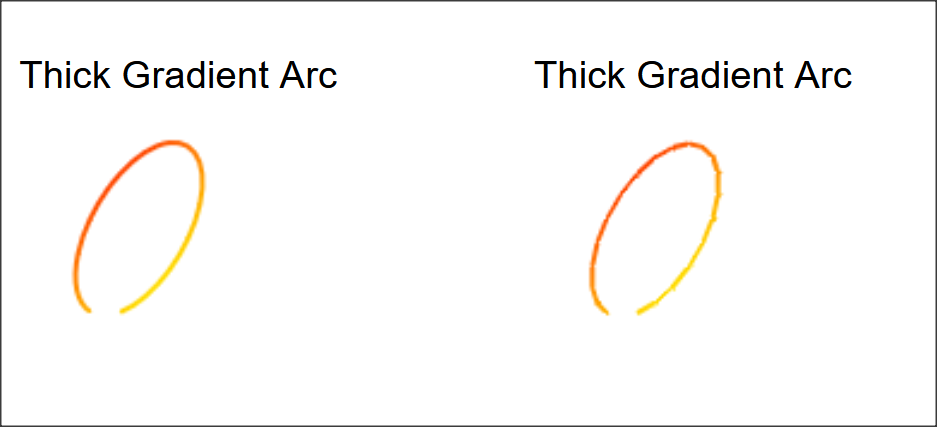
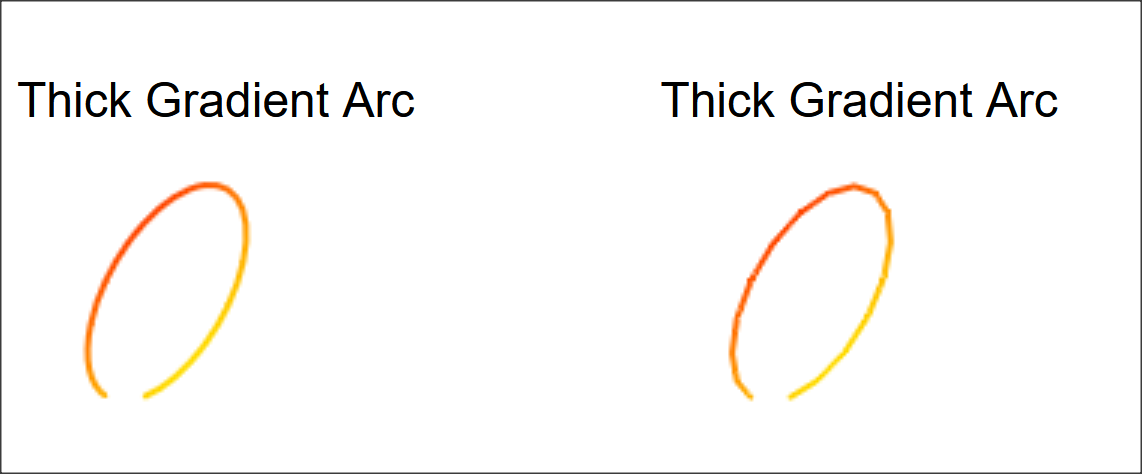
v.0.9.4
* lines with widths < 1
* better curve sampling
* some optimizations

diff --git a/src/Rasterizer.min.js b/src/Rasterizer.min.js
@@ -2,8 +2,8 @@
 *   Rasterizer
 *   rasterize, draw and fill lines, rectangles and curves
 *
-*   @version 0.9.3
+*   @version 0.9.4
 *   https://github.com/foo123/Rasterizer
 *
 **/
-!function(r,n,t){"use strict";"object"==typeof module&&module.exports?module.exports=t.call(r):"function"==typeof define&&define.amd&&"function"==typeof require&&"function"==typeof require.specified&&require.specified(n)?define(n,["module"],function(n){return t.call(r)}):n in r||(r[n]=t.call(r)||1)&&"function"==typeof define&&define.amd&&define(function(){return r[n]})}("undefined"!=typeof self?self:this,"Rasterizer",function(n){"use strict";var r=Object.defineProperty,Y=Math,B=Y.PI,t=1e-6,e=Y.sqrt(2),C=20,D=1,u="undefined"!=typeof Uint8ClampedArray?Uint8ClampedArray:"undefined"!=typeof Uint8Array?Uint8Array:Array;function c(p,h,o){var g=this;if(!(g instanceof c))return new c(p,h,o);var e,i=c.getRGBAFrom([0,0,0,1]),l=c.getRGBAFrom([0,0,0,1]),b="butt",f="miter",q=1,A=[],R=function(){e={}},k=function(n){for(var r in e){var t=e[r],r=r.split(",");n(+r[0],+r[1],t)}},S=function(n,r,t){0<=n&&n<p&&0<=r&&r<h&&0<t&&(n=String(n)+","+String(r),(e[n]||0)<t)&&(e[n]=t)},w=function(n,r,t){var e=i(n,r),u=3<e.length?e[3]:1;0<u&&o(n,r,e[0],e[1],e[2],u*t)},a=function(n,r,t){var e=l(n,r),u=3<e.length?e[3]:1;0<u&&o(n,r,e[0],e[1],e[2],u*t)};r(g,"strokeStyle",{get:function(){return""},set:function(n){i=c.getRGBAFrom(n)}}),r(g,"fillStyle",{get:function(){return""},set:function(n){l=c.getRGBAFrom(n)}}),r(g,"lineWidth",{get:function(){return q},set:function(n){0<(n=Y.abs(+n||0))&&(q=n)}}),r(g,"lineCap",{get:function(){return b},set:function(n){n=String(n).toLowerCase(),-1!==["butt","square"].indexOf(n)?b=n:s('"'+n+'" lineCap is not supported!')}}),r(g,"lineJoin",{get:function(){return f},set:function(n){n=String(n).toLowerCase(),-1!==["miter","bevel"].indexOf(n)?f=n:s('"'+n+'" lineJoin is not supported!')}}),r(g,"lineDash",{get:function(){return A.slice()},set:function(n){1&(n=[].concat(n)).length&&(n=n.concat(n)),A=n}}),g.setLineDash=function(n){g.lineDash=n},g.strokeRect=function(n,r,t,e){return 1<=t&&1<=e&&0<q&&(R(),G(S,[n,r,n+t-1,r,n+t-1,r+e-1,n,r+e-1,n,r],q,0,"butt","miter",0,0,p-1,h-1),k(w)),g},g.fillRect=function(n,r,t,e){var u,o,i,l;return 1<=t&&1<=e&&(R(),t=n+t-1,e=(r=r)+e-1,o=u=0,i=p-1,l=h-1,F(S,Y.round(n),Y.round(r),Y.round(t),Y.round(e),u,o,i,l),k(a)),g},g.strokePolyline=function(){return 0<q&&(R(),G(S,arguments,q,0,b,f,0,0,p-1,h-1),k(w)),g},g.strokeArc=function(n,r,t,e,u,o,i,l){var f,a,c,s,d,y,x,m,v;return 0<q&&(l=l?(x=-i-B,o):(x=o,i),R(),o=S,f=n,a=r,c=t,s=e,i=u,d=x,y=l,n=q,r=A,t=b,u=e=0,x=p-1,l=h-1,m=Y.cos(i),v=Y.sin(i),G(o,L(function(n){var n=d+n*(y-d),r=c*Y.cos(n),n=s*Y.sin(n);return[f+m*r-v*n,a+v*r+m*n]},C,D,!0),n,0,t,"bevel",e,u,x,l),k(w)),g},g.strokeBezier=function(){var i,n,r,t,e,u,o,l;return 0<q&&4<=arguments.length&&(R(),4===arguments.length?G(S,arguments,q,0,b,f,0,0,p-1,h-1):(n=q,r=A,t=b,u=e=0,o=p-1,l=h-1,G(S,L(6<(i=arguments).length?function(n){var r=1-n,t=n*n,e=r*r,u=e*r,o=t*n,e=3*e*n,n=3*t*r;return[u*i[0]+e*i[2]+n*i[4]+o*i[6],u*i[1]+e*i[3]+n*i[5]+o*i[7]]}:function(n){var r=1-n,t=r*r,r=2*r*n,n=n*n;return[t*i[0]+r*i[2]+n*i[4],t*i[1]+r*i[3]+n*i[5]]},C,D,!0),n,0,t,"bevel",e,u,o,l)),k(w)),g}}function G(U,n,z,E,r,J,N,j,W,M){var t,e,u,o,i,T,V,H,K,l,f,Q,a,c,s,d,y,x,m,v,p,h,g,b,q,A,R,k,X,S,w,B,C,D,G,F,L,O,P,I=n.length;if(I<6)Z(U,e=n[0],u=n[1],o=n[2],i=n[3],l=Y.abs(o-e),f=Y.abs(i-u),(a=$(z,l,f))[0],a[1],r,r,N,j,W,M);else for(I-=2,t=0;t<I;t+=2)Z(U,e=n[t],u=n[t+1],o=n[t+2],i=n[t+3],l=Y.abs(o-e),f=Y.abs(i-u),(a=$(z,l,f))[0],a[1],0===t?r:null,I===t+2?r:null,N,j,W,M),1<z&&0<t&&(c=U,s=T,d=V,y=e,x=u,m=o,v=i,p=H,h=K,g=Q[0],b=Q[1],q=l,A=f,R=a[0],k=a[1],X=J,S=N,w=j,B=W,C=M,P=O=L=F=G=D=void 0,tn(h*q,A*p)||(y<s&&m<y&&(P=s,s=m,m=P,P=d,d=v,v=P,P=p,p=q,q=P,P=h,h=A,A=P,P=g,g=R,R=P,P=b,b=k,k=P),b={x:s-(q=(p=y<s?-1:1)*g),y:d+(g=(A=x<d?-1:1)*b)},s={x:s+q,y:d-g},d={x:y-q,y:x+g},q={x:y+q,y:x-g},G={x:y-(R=(g=m<y?-1:1)*R),y:x+(k=(D=v<x?-1:1)*k)},F={x:y+R,y:x-k},L={x:m-R,y:v+k},m={x:m+R,y:v-k},R={x:y,y:x},v=p==g?A==D?en(h,0)?(O=q,F):(O=d,G):(O=d,F):(O=q,G),"bevel"===X?(rn(c,O.x,O.y,v.x,v.y,null,null,S,w,B,C),nn(c,R.x,R.y,O.x,O.y,v.x,v.y,S,w,B,C)):"miter"===X&&(P=p==g?A==D?en(h,0)?_(s.x,s.y,q.x,q.y,F.x,F.y,m.x,m.y):_(b.x,b.y,d.x,d.y,G.x,G.y,L.x,L.y):_(b.x,b.y,d.x,d.y,F.x,F.y,m.x,m.y):_(s.x,s.y,q.x,q.y,G.x,G.y,L.x,L.y),rn(c,O.x,O.y,P.x,P.y,null,null,S,w,B,C),rn(c,v.x,v.y,P.x,P.y,null,null,S,w,B,C),nn(c,R.x,R.y,O.x,O.y,v.x,v.y,S,w,B,C),nn(c,P.x,P.y,O.x,O.y,v.x,v.y,S,w,B,C)))),T=e,V=u,H=l,K=f,Q=a}function Z(n,r,t,e,u,o,i,l,f,a,c,s,d,y,x){var m;0===l&&0===f?rn(n,r,t,e,u,o,i,s,d,y,x):(n=n,t=t,u=u,i=i,l=l,f=f,a=a,c=c,s=s,d=d,y=y,x=x,(e=e)<(r=r)&&(m=r,r=e,e=m,m=t,t=u,u=m,m=a,a=c,c=m),m=u<t?-1:1,en(o=o,0)?("square"===a&&(t-=m*l),"square"===c&&(u+=m*l),F(n,Y.round(r-l),Y.round(t),Y.round(r+l),Y.round(u),s,d,y,x)):en(i,0)?("square"===a&&(r-=+f),"square"===c&&(e+=+f),F(n,Y.round(r),Y.round(t-f),Y.round(e),Y.round(t+f),s,d,y,x)):("square"===a&&(r-=+f,t-=m*l),"square"===c&&(e+=+f,u+=m*l),i=e-(o=+l),c=u+(a=m*f),l=e+o,m=u-a,rn(n,f=r-o,e=t+a,u=r+o,r=t-a,null,null,s,d,y,x),rn(n,u,r,l,m,null,null,s,d,y,x),rn(n,l,m,i,c,null,null,s,d,y,x),rn(n,i,c,f,e,null,null,s,d,y,x),nn(n,f,e,u,r,i,c,s,d,y,x),nn(n,u,r,i,c,l,m,s,d,y,x)))}function $(n,r,t){return n<=1?[0,0]:en(r,0)?[(n-1)/2,0]:en(t,0)?[0,(n-1)/2]:[t*(n=(n-1)/2)/(t=l(r,t)),r*n/t]}function _(n,r,t,e,u,o,i,l){var f=e-r,a=n-t,t=t*r-n*e,r=l-o,n=u-i,e=i*o-u*l,i=f*n-a*r;return!tn(i,0)&&{x:(a*e-t*n)/i,y:(t*r-f*e)/i}}function F(n,r,t,e,u,o,i,l,f){var a,c;if(e<r&&(a=r,r=e,e=a),u<t&&(c=t,t=u,u=c),null!=o){if(e<o||l<r||u<i||f<t)return;r=Y.max(r,o),t=Y.max(t,i),e=Y.min(e,l),u=Y.min(u,f)}if(t===u)for(a=r;a<=e;++a)n(a,t,1);else if(r===e)for(c=t;c<=u;++c)n(r,c,1);else for(c=t;c<=u;++c)for(a=r;a<=e;++a)n(a,c,1)}function nn(n,r,t,e,u,o,i,l,f,a,c){var s,d,y,x,m,v,p,h,g,b,q,A,R,k,S=null!=l;if(u<t&&(y=t,t=u,u=y,y=r,r=e,e=y),i<t&&(y=t,t=i,i=y,y=r,r=o,o=y),i<u&&(y=u,u=i,i=y,y=e,e=o,o=y),en(b=i-t,0))return x=Y.round(t),F(n,s=Y.round(Y.min(r,e,o)),x,d=Y.round(Y.max(r,e,o)),x,l,f,a,c);for(A=i-u,p=o-r,h=e-r,g=o-e,R=en(q=u-t,0),k=en(A,0),x=Y.round(t+.5),m=Y.round(u),v=Y.round(i-.5),S&&(x=Y.max(f,x),v=Y.min(c,v));x<=v;++x)if(d=x<m?R?(s=r,e):(s=p*(x-t)/b+r,h*(x-t)/q+r):k?(s=e,o):(s=p*(x-t)/b+r,g*(x-u)/A+e),Y.abs(d-s)<1)(!S||l<=s&&s<=a)&&n(Y.round(s),x,1);else for(d<s&&(y=s,s=d,d=y),s=Y.round(s+.5),d=Y.round(d-.5),S&&(s=Y.max(l,s),d=Y.min(a,d));s<=d;++s)n(s,x,1)}function rn(n,r,t,e,u,o,i,l,f,a,c){var s=Y.min(r,e),d=Y.max(r,e),y=Y.min(t,u),x=Y.max(t,u);if(!(d<l||a<s||x<f||c<y)){if(null==o&&(o=Y.abs(e-r),i=Y.abs(u-t)),s<l||a<d||y<f||c<x){s=function(n,r,t,e,u,o,i,l){var f=-(t=-(t-n)),a=-(e=-(e-r)),u=n-u,i=i-n,o=r-o,l=l-r,c=1,s=0;if(!(0==t&&u<0||0==f&&i<0||0==e&&o<0||0==a&&l<0||(0!=t&&(u=u/t,i=i/f,t<0?(s<u&&(s=u),i<c&&(c=i)):(s<i&&(s=i),u<c&&(c=u))),0!=e&&(t=o/e,i=l/a,e<0?(s<t&&(s=t),i<c&&(c=i)):(s<i&&(s=i),t<c&&(c=t))),c<s)))return[n+f*s,r+a*s,n+f*c,r+a*c]}(r,t,e,u,l,f,a,c);if(!s)return;r=s[0],t=s[1],e=s[2],u=s[3]}if(en(o,0)||en(i,0))return F(n,Y.round(r),Y.round(t),Y.round(e),Y.round(u));var m,v,p,h,g=0,b=0,q=0,d=o<i;if(d&&(m=r,r=t,t=m,m=e,e=u,u=m,m=o,o=i,i=m),e<r&&(m=r,r=e,e=m,v=t,t=u,u=v),x=t+(h=(u<t?-1:1)*i/o)*((y=Y.round(r))-r),l=1-(r+.5-Y.floor(r+.5)),f=y,q=1-(b=x-(a=Y.floor(x))),d?(n(a,f,q*l),n(a+1,f,b*l)):(n(f,a,q*l),n(f,a+1,b*l)),g=x+h,x=u+h*((y=Y.round(e))-e),l=e+.5-Y.floor(e+.5),p=y,q=1-(b=x-(c=Y.floor(x))),d?(n(c,p,q*l),n(c+1,p,b*l)):(n(p,c,q*l),n(p,c+1,b*l)),d)for(m=f+1;m<p;++m)0<(q=1-(b=g-(v=Y.floor(g))))&&n(v,m,q),0<b&&n(v+1,m,b),g+=h;else for(m=f+1;m<p;++m)0<(q=1-(b=g-(v=Y.floor(g))))&&n(m,v,q),0<b&&n(m,v+1,b),g+=h}}function s(n){throw new Error(n)}function y(n,r,t){return Y.min(Y.max(n,r),t)}function tn(n,r){return Y.abs(n-r)<t}function en(n,r){return Y.abs(n-r)<Number.EPSILON}function l(n,r){n=Y.abs(n),r=Y.abs(r);var t=0;return en(n,0)?r:en(r,0)?n:r<n?n*Y.sqrt(1+(t=r/n)*t):n<r?r*Y.sqrt(1+(t=n/r)*t):n*e}function d(n,r,t){var e=r[0],r=r[1],u=t[0],t=t[1],o=n[0],n=n[1],u=u-e,t=t-r,i=l(u,t);return en(i,0)?l(o-e,n-r):Y.abs(u*(r-n)-t*(e-o))/i}function L(n,r,t,e){null==r&&(r=C),null==t&&(t=D);var u,o,i=[];if(e)for(o=n(0),i.push(o[0],o[1]),u=0;u<r;++u)!function n(r,t,e,u,o,i,l){if(u<=e||tn(e,u))return;var f=(e+u)/2,i=i||t(e),l=l||t(u),a=t(f);d(a,i,l)<=o?r.push(l[0],l[1]):(n(r,t,e,f,o,i,a),n(r,t,f,u,o,a,l))}(i,n,0===u?0:u/r,r===u+1?1:(u+1)/r,t,null,null);else for(u=0;u<=r;++u)o=n(0===u?0:r===u?1:u/r),i.push(o[0],o[1]);return i}return c.VERSION="0.9.3",c.prototype={constructor:c,strokeStyle:null,fillStyle:null,lineWidth:null,lineCap:null,lineJoin:null,lineDash:null,setLineDash:null,strokeRect:null,fillRect:null,strokePolyline:null,strokeArc:null,strokeBezier:null},c.createImageData=function(n,r){return{data:new u(n*r<<2),width:n,height:r}},c.getRGBAFrom=function(t){var e;return"function"==typeof t?function(n,r){n=t(n,r);return[n[0],n[1],n[2],3<n.length?n[3]/255:1]}:(e=[t[0],t[1],t[2],3<t.length?t[3]:1],function(n,r){return e})},c.setRGBATo=function(i){var c,s,d;return"function"==typeof i?function(n,r,t,e,u,o){0<o&&i(n,r,t,e,u,o)}:(c=i.width,s=i.height,d=i.data,function(n,r,t,e,u,o){var i,l,f,a;0<=n&&n<c&&0<=r&&r<s&&0<o&&(r=d[n=n+c*r<<2],i=d[1+n],l=d[2+n],0<(a=(o=o)+(f=d[3+n]/255)*(1-o)))&&(d[n]=y(Y.round((t*o+r*f*(1-o))/a),0,255),d[1+n]=y(Y.round((e*o+i*f*(1-o))/a),0,255),d[2+n]=y(Y.round((u*o+l*f*(1-o))/a),0,255),d[3+n]=y(Y.round(255*a),0,255))})},c});
+!function(r,n,e){"use strict";"object"==typeof module&&module.exports?module.exports=e.call(r):"function"==typeof define&&define.amd&&"function"==typeof require&&"function"==typeof require.specified&&require.specified(n)?define(n,["module"],function(n){return e.call(r)}):n in r||(r[n]=e.call(r)||1)&&"function"==typeof define&&define.amd&&define(function(){return r[n]})}("undefined"!=typeof self?self:this,"Rasterizer",function(n){"use strict";var r=Object.defineProperty,Y=Math,D=Y.PI,e=1e-6,t=Y.sqrt(2),G=8,c=2,F=1,u="undefined"!=typeof Uint8ClampedArray?Uint8ClampedArray:"undefined"!=typeof Uint8Array?Uint8Array:Array;function s(h,g,o){var b=this;if(!(b instanceof s))return new s(h,g,o);var t,i=s.getRGBAFrom([0,0,0,1]),l=s.getRGBAFrom([0,0,0,1]),q="butt",a="miter",A=1,R=1,k=[],S=function(){t={}},w=function(n){for(var r in t){var e=t[r],r=r.split(",");n(+r[0],+r[1],e)}},B=function(n,r,e){0<=n&&n<h&&0<=r&&r<g&&0<e&&(e*=R,n=String(n)+","+String(r),(t[n]||0)<e)&&(t[n]=e)},C=function(n,r,e){var t=i(n,r),u=3<t.length?t[3]:1;0<u&&o(n,r,t[0],t[1],t[2],u*e)},f=function(n,r,e){var t=l(n,r),u=3<t.length?t[3]:1;0<u&&o(n,r,t[0],t[1],t[2],u*e)};r(b,"strokeStyle",{get:function(){return""},set:function(n){i=s.getRGBAFrom(n)}}),r(b,"fillStyle",{get:function(){return""},set:function(n){l=s.getRGBAFrom(n)}}),r(b,"lineWidth",{get:function(){return A},set:function(n){0<(n=Y.abs(+n||0))&&(A=n)}}),r(b,"lineCap",{get:function(){return q},set:function(n){n=String(n).toLowerCase(),-1!==["butt","square"].indexOf(n)?q=n:d('"'+n+'" lineCap is not supported!')}}),r(b,"lineJoin",{get:function(){return a},set:function(n){n=String(n).toLowerCase(),-1!==["miter","bevel"].indexOf(n)?a=n:d('"'+n+'" lineJoin is not supported!')}}),r(b,"lineDash",{get:function(){return k.slice()},set:function(n){1&(n=[].concat(n)).length&&(n=n.concat(n)),k=n}}),b.setLineDash=function(n){b.lineDash=n},b.strokeRect=function(n,r,e,t){var u;return 1<=e&&1<=t&&0<A&&(u=R,A<1&&(R=A),S(),L(B,[n,r,n+e-1,r,n+e-1,r+t-1,n,r+t-1,n,r],A,0,"butt","miter",0,0,h-1,g-1),w(C),R=u),b},b.fillRect=function(n,r,e,t){var u,o,i,l;return 1<=e&&1<=t&&(S(),e=n+e-1,t=(r=r)+t-1,o=u=0,i=h-1,l=g-1,O(B,Y.round(n),Y.round(r),Y.round(e),Y.round(t),u,o,i,l),w(f)),b},b.strokePolyline=function(){var n;return 0<A&&(n=R,A<1&&(R=A),S(),L(B,arguments,A,0,q,a,0,0,h-1,g-1),w(C),R=n),b},b.strokeArc=function(n,r,e,t,u,o,i,l){var f,a,c,s,d,y,x,m,v,p;return 0<A&&(l=l?(x=-i-D,o):(x=o,i),o=R,A<1&&(R=A),S(),i=B,f=n,a=r,c=e,s=t,n=u,d=x,y=l,r=A,e=k,t=q,x=u=0,l=h-1,m=g-1,v=Y.cos(n),p=Y.sin(n),L(i,P(function(n){var n=d+n*(y-d),r=c*Y.cos(n),n=s*Y.sin(n);return[f+v*r-p*n,a+p*r+v*n]},G,F,!0),r,0,t,"bevel",u,x,l,m),w(C),R=o),b},b.strokeBezier=function(){var n,i,r,e,t,u,o,l,f;return 0<A&&4<=arguments.length&&(n=R,A<1&&(R=A),S(),4===arguments.length?L(B,arguments,A,0,q,a,0,0,h-1,g-1):(r=A,e=k,t=q,o=u=0,l=h-1,f=g-1,L(B,P(6<(i=arguments).length?function(n){var r=1-n,e=n*n,t=r*r,u=t*r,o=e*n,t=3*t*n,n=3*e*r;return[u*i[0]+t*i[2]+n*i[4]+o*i[6],u*i[1]+t*i[3]+n*i[5]+o*i[7]]}:function(n){var r=1-n,e=r*r,r=2*r*n,n=n*n;return[e*i[0]+r*i[2]+n*i[4],e*i[1]+r*i[3]+n*i[5]]},G,F,!0),r,0,t,"bevel",u,o,l,f)),w(C),R=n),b}}function L(U,n,z,E,r,J,N,j,W,M){var e,t,u,o,i,T,V,H,K,l,f,Q,a,c,s,d,y,x,m,v,p,h,g,b,q,A,R,k,S,w,B,C,D,G,F,L,O,P,I,X=n.length;if(X<6)Z(U,t=n[0],u=n[1],o=n[2],i=n[3],l=Y.abs(o-t),f=Y.abs(i-u),(a=$(z,l,f))[0],a[1],r,r,N,j,W,M);else for(X-=2,e=0;e<X;e+=2)Z(U,t=n[e],u=n[e+1],o=n[e+2],i=n[e+3],l=Y.abs(o-t),f=Y.abs(i-u),(a=$(z,l,f))[0],a[1],0===e?r:null,X===e+2?r:null,N,j,W,M),1<z&&0<e&&(c=U,s=T,d=V,y=t,x=u,m=o,v=i,p=H,h=K,g=Q[0],b=Q[1],q=l,A=f,R=a[0],k=a[1],w=N,B=j,C=W,D=M,I=P=O=L=F=G=void 0,"bevel"!==(S=J)&&"miter"!==S||en(h*q,A*p)||(y<s&&m<y&&(I=s,s=m,m=I,I=d,d=v,v=I,I=p,p=q,q=I,I=h,h=A,A=I,I=g,g=R,R=I,I=b,b=k,k=I),b={x:s-(q=(p=y<s?-1:1)*g),y:d+(g=(A=x<d?-1:1)*b)},s={x:s+q,y:d-g},d={x:y-q,y:x+g},q={x:y+q,y:x-g},F={x:y-(R=(g=m<y?-1:1)*R),y:x+(k=(G=v<x?-1:1)*k)},L={x:y+R,y:x-k},O={x:m-R,y:v+k},m={x:m+R,y:v-k},R={x:y,y:x},v=p==g?A==G?tn(h,0)?(P=q,L):(P=d,F):(P=d,L):(P=q,F),"bevel"===S?(rn(c,P.x,P.y,v.x,v.y,null,null,w,B,C,D),nn(c,R.x,R.y,P.x,P.y,v.x,v.y,w,B,C,D)):"miter"===S&&(I=p==g?A==G?tn(h,0)?_(s.x,s.y,q.x,q.y,L.x,L.y,m.x,m.y):_(b.x,b.y,d.x,d.y,F.x,F.y,O.x,O.y):_(b.x,b.y,d.x,d.y,L.x,L.y,m.x,m.y):_(s.x,s.y,q.x,q.y,F.x,F.y,O.x,O.y),rn(c,P.x,P.y,I.x,I.y,null,null,w,B,C,D),rn(c,v.x,v.y,I.x,I.y,null,null,w,B,C,D),nn(c,R.x,R.y,P.x,P.y,v.x,v.y,w,B,C,D),nn(c,I.x,I.y,P.x,P.y,v.x,v.y,w,B,C,D)))),T=t,V=u,H=l,K=f,Q=a}function Z(n,r,e,t,u,o,i,l,f,a,c,s,d,y,x){var m;0===l&&0===f?rn(n,r,e,t,u,o,i,s,d,y,x):(n=n,e=e,u=u,i=i,l=l,f=f,a=a,c=c,s=s,d=d,y=y,x=x,(t=t)<(r=r)&&(m=r,r=t,t=m,m=e,e=u,u=m,m=a,a=c,c=m),m=u<e?-1:1,tn(o=o,0)?("square"===a&&(e-=m*l),"square"===c&&(u+=m*l),O(n,Y.round(r-l),Y.round(e),Y.round(r+l),Y.round(u),s,d,y,x)):tn(i,0)?("square"===a&&(r-=+f),"square"===c&&(t+=+f),O(n,Y.round(r),Y.round(e-f),Y.round(t),Y.round(e+f),s,d,y,x)):("square"===a&&(r-=+f,e-=m*l),"square"===c&&(t+=+f,u+=m*l),i=t-(o=+l),c=u+(a=m*f),l=t+o,m=u-a,rn(n,f=r-o,t=e+a,u=r+o,r=e-a,null,null,s,d,y,x),rn(n,u,r,l,m,null,null,s,d,y,x),rn(n,l,m,i,c,null,null,s,d,y,x),rn(n,i,c,f,t,null,null,s,d,y,x),nn(n,f,t,u,r,i,c,s,d,y,x),nn(n,u,r,i,c,l,m,s,d,y,x)))}function $(n,r,e){return n<=1?[0,0]:tn(r,0)?[(n-1)/2,0]:tn(e,0)?[0,(n-1)/2]:[e*(n=(n-1)/2)/(e=x(r,e)),r*n/e]}function _(n,r,e,t,u,o,i,l){var f=t-r,a=n-e,e=e*r-n*t,r=l-o,n=u-i,t=i*o-u*l,i=f*n-a*r;return!en(i,0)&&{x:(a*t-e*n)/i,y:(e*r-f*t)/i}}function O(n,r,e,t,u,o,i,l,f){var a,c;if(t<r&&(a=r,r=t,t=a),u<e&&(c=e,e=u,u=c),null!=o){if(t<o||l<r||u<i||f<e)return;r=Y.max(r,o),e=Y.max(e,i),t=Y.min(t,l),u=Y.min(u,f)}if(e===u)for(a=r;a<=t;++a)n(a,e,1);else if(r===t)for(c=e;c<=u;++c)n(r,c,1);else for(c=e;c<=u;++c)for(a=r;a<=t;++a)n(a,c,1)}function nn(n,r,e,t,u,o,i,l,f,a,c){var s,d,y,x,m,v,p,h,g,b,q,A,R,k,S=null!=l;if(!S||!(Y.max(r,t,o)<l||Y.min(r,t,o)>a||Y.max(e,u,i)<f||Y.min(e,u,i)>c)){if(u<e&&(y=e,e=u,u=y,y=r,r=t,t=y),i<e&&(y=e,e=i,i=y,y=r,r=o,o=y),i<u&&(y=u,u=i,i=y,y=t,t=o,o=y),tn(b=i-e,0))return x=Y.round(e),O(n,s=Y.round(Y.min(r,t,o)),x,d=Y.round(Y.max(r,t,o)),x,l,f,a,c);for(A=i-u,p=o-r,h=t-r,g=o-t,R=tn(q=u-e,0),k=tn(A,0),x=Y.round(e+.5),m=Y.round(u),v=Y.round(i-.5),S&&(x=Y.max(f,x),v=Y.min(c,v));x<=v;++x)if(d=x<m?R?(s=r,t):(s=p*(x-e)/b+r,h*(x-e)/q+r):k?(s=t,o):(s=p*(x-e)/b+r,g*(x-u)/A+t),Y.abs(d-s)<1)(!S||l<=s&&s<=a)&&n(Y.round(s),x,1);else for(d<s&&(y=s,s=d,d=y),s=Y.round(s+.5),d=Y.round(d-.5),S&&(s=Y.max(l,s),d=Y.min(a,d));s<=d;++s)n(s,x,1)}}function rn(n,r,e,t,u,o,i,l,f,a,c){var s=Y.min(r,t),d=Y.max(r,t),y=Y.min(e,u),x=Y.max(e,u);if(!(d<l||a<s||x<f||c<y)){if(null==o&&(o=Y.abs(t-r),i=Y.abs(u-e)),s<l||a<d||y<f||c<x){s=function(n,r,e,t,u,o,i,l){var f=-(e=-(e-n)),a=-(t=-(t-r)),u=n-u,i=i-n,o=r-o,l=l-r,c=1,s=0;if(!(0==e&&u<0||0==f&&i<0||0==t&&o<0||0==a&&l<0||(0!=e&&(u=u/e,i=i/f,e<0?(s<u&&(s=u),i<c&&(c=i)):(s<i&&(s=i),u<c&&(c=u))),0!=t&&(e=o/t,i=l/a,t<0?(s<e&&(s=e),i<c&&(c=i)):(s<i&&(s=i),e<c&&(c=e))),c<s)))return[n+f*s,r+a*s,n+f*c,r+a*c]}(r,e,t,u,l,f,a,c);if(!s)return;r=s[0],e=s[1],t=s[2],u=s[3]}if(tn(o,0)||tn(i,0))return O(n,Y.round(r),Y.round(e),Y.round(t),Y.round(u));var m,v,p,h,g=0,b=0,q=0,d=o<i;if(d&&(m=r,r=e,e=m,m=t,t=u,u=m,m=o,o=i,i=m),t<r&&(m=r,r=t,t=m,v=e,e=u,u=v),x=e+(h=(u<e?-1:1)*i/o)*((y=Y.round(r))-r),l=1-(r+.5-Y.floor(r+.5)),f=y,q=1-(b=x-(a=Y.floor(x))),d?(n(a,f,q*l),n(a+1,f,b*l)):(n(f,a,q*l),n(f,a+1,b*l)),g=x+h,x=u+h*((y=Y.round(t))-t),l=t+.5-Y.floor(t+.5),p=y,q=1-(b=x-(c=Y.floor(x))),d?(n(c,p,q*l),n(c+1,p,b*l)):(n(p,c,q*l),n(p,c+1,b*l)),d)for(m=f+1;m<p;++m)0<(q=1-(b=g-(v=Y.floor(g))))&&n(v,m,q),0<b&&n(v+1,m,b),g+=h;else for(m=f+1;m<p;++m)0<(q=1-(b=g-(v=Y.floor(g))))&&n(m,v,q),0<b&&n(m,v+1,b),g+=h}}function d(n){throw new Error(n)}function y(n,r,e){return Y.min(Y.max(n,r),e)}function en(n,r){return Y.abs(n-r)<e}function tn(n,r){return Y.abs(n-r)<Number.EPSILON}function x(n,r){n=Y.abs(n),r=Y.abs(r);var e=0;return tn(n,0)?r:tn(r,0)?n:r<n?n*Y.sqrt(1+(e=r/n)*e):n<r?r*Y.sqrt(1+(e=n/r)*e):n*t}function m(n,r,e){var t=r[0],r=r[1],u=e[0],e=e[1],o=n[0],n=n[1],u=u-t,e=e-r,i=x(u,e);return tn(i,0)?x(o-t,n-r):Y.abs(u*(r-n)-e*(t-o))/i}function P(n,r,e,t){null==r&&(r=G),null==e&&(e=F);var u,o,i=[];if(t)for(o=n(0),i.push(o[0],o[1]),u=0;u<r;++u)!function n(r,e,t,u,o,i,l){if(u<=t||en(t,u))return;var f,a,i=i||e(t),l=l||e(u);if(x(l[0]-i[0],l[1]-i[1])<=c)return void r.push(l[0],l[1]);f=(t+u)/2;a=e(f);m(a,i,l)<=o?r.push(l[0],l[1]):(n(r,e,t,f,o,i,a),n(r,e,f,u,o,a,l))}(i,n,0===u?0:u/r,r===u+1?1:(u+1)/r,e,null,null);else for(u=0;u<=r;++u)o=n(0===u?0:r===u?1:u/r),i.push(o[0],o[1]);return i}return s.VERSION="0.9.4",s.prototype={constructor:s,strokeStyle:null,fillStyle:null,lineWidth:null,lineCap:null,lineJoin:null,lineDash:null,setLineDash:null,strokeRect:null,fillRect:null,strokePolyline:null,strokeArc:null,strokeBezier:null},s.createImageData=function(n,r){return{data:new u(n*r<<2),width:n,height:r}},s.getRGBAFrom=function(e){var t;return"function"==typeof e?function(n,r){n=e(n,r);return[n[0],n[1],n[2],3<n.length?n[3]/255:1]}:(t=[e[0],e[1],e[2],3<e.length?e[3]:1],function(n,r){return t})},s.setRGBATo=function(i){var c,s,d;return"function"==typeof i?function(n,r,e,t,u,o){0<o&&i(n,r,e,t,u,o)}:(c=i.width,s=i.height,d=i.data,function(n,r,e,t,u,o){var i,l,f,a;0<=n&&n<c&&0<=r&&r<s&&0<o&&(r=d[n=n+c*r<<2],i=d[1+n],l=d[2+n],0<(a=(o=o)+(f=d[3+n]/255)*(1-o)))&&(d[n]=y(Y.round((e*o+r*f*(1-o))/a),0,255),d[1+n]=y(Y.round((t*o+i*f*(1-o))/a),0,255),d[2+n]=y(Y.round((u*o+l*f*(1-o))/a),0,255),d[3+n]=y(Y.round(255*a),0,255))})},s});

diff --git a/src/Rasterizer.js b/src/Rasterizer.js
@@ -2,7 +2,7 @@
 *   Rasterizer
 *   rasterize, draw and fill lines, rectangles and curves
 *
-*   @version 0.9.3
+*   @version 0.9.4
 *   https://github.com/foo123/Rasterizer
 *
 **/
@@ -22,7 +22,7 @@ else if (!(name in root)) /* Browser/WebWorker/.. */
 var def = Object.defineProperty,
     stdMath = Math, INF = Infinity, PI = stdMath.PI,
     EPS = 1e-6, sqrt2 = stdMath.sqrt(2),
-    NUM_POINTS = 20, PIXEL_SIZE = 1,
+    NUM_POINTS = 8, MIN_LEN = 2, PIXEL_SIZE = 1,
     ImArray = 'undefined' !== typeof Uint8ClampedArray ? Uint8ClampedArray : ('undefined' !== typeof Uint8Array ? Uint8Array : Array);
 
 function Rasterizer(width, height, set_rgba_at)
@@ -35,7 +35,7 @@ function Rasterizer(width, height, set_rgba_at)
         canvas, canvas_reset, canvas_output,
         set_pixel, stroke_pixel, fill_pixel,
         lineCap = 'butt', lineJoin = 'miter',
-        lineWidth = 1, lineDash = [];
+        lineWidth = 1, mult = 1, lineDash = [];
 
     canvas_reset = function canvas_reset() {
         // sparse array/hash
@@ -51,6 +51,7 @@ function Rasterizer(width, height, set_rgba_at)
     set_pixel = function set_pixel(x, y, i) {
         if (0 <= x && x < width && 0 <= y && y < height && 0 < i)
         {
+            i *= mult;
             var idx = String(x)+','+String(y)/*String(x + y*width)*/, j = canvas[idx] || 0;
             if (i > j) canvas[idx] = i;
         }
@@ -148,9 +149,12 @@ function Rasterizer(width, height, set_rgba_at)
     self.strokeRect = function(x, y, w, h) {
         if (1 <= w && 1 <= h && 0 < lineWidth)
         {
+            var m = mult;
+            if (1 > lineWidth) mult = lineWidth;
             canvas_reset();
             stroke_polyline(set_pixel, [x, y, x + w - 1, y, x + w - 1, y + h - 1, x, y + h - 1, x, y], lineWidth, lineDash, 'butt', 'miter', 0, 0, width - 1, height - 1);
             canvas_output(stroke_pixel);
+            mult = m;
         }
         return self;
     };
@@ -166,9 +170,12 @@ function Rasterizer(width, height, set_rgba_at)
     self.strokePolyline = function() {
         if (0 < lineWidth)
         {
+            var m = mult;
+            if (1 > lineWidth) mult = lineWidth;
             canvas_reset();
             stroke_polyline(set_pixel, arguments, lineWidth, lineDash, lineCap, lineJoin, 0, 0, width - 1, height - 1);
             canvas_output(stroke_pixel);
+            mult = m;
         }
         return self;
     };
@@ -186,15 +193,20 @@ function Rasterizer(width, height, set_rgba_at)
                 t0 = start;
                 t1 = end;
             }
+            var m = mult;
+            if (1 > lineWidth) mult = lineWidth;
             canvas_reset();
             stroke_arc(set_pixel, cx, cy, rx, ry, angle, t0, t1, lineWidth, lineDash, lineCap, 'bevel', 0, 0, width - 1, height - 1);
             canvas_output(stroke_pixel);
+            mult = m;
         }
         return self;
     };
     self.strokeBezier = function() {
         if (0 < lineWidth && 4 <= arguments.length)
         {
+            var m = mult;
+            if (1 > lineWidth) mult = lineWidth;
             canvas_reset();
             if (4 === arguments.length)
             {
@@ -205,11 +217,12 @@ function Rasterizer(width, height, set_rgba_at)
                 stroke_bezier(set_pixel, arguments, lineWidth, lineDash, lineCap, 'bevel', 0, 0, width - 1, height - 1);
             }
             canvas_output(stroke_pixel);
+            mult = m;
         }
         return self;
     };
 }
-Rasterizer.VERSION = '0.9.3';
+Rasterizer.VERSION = '0.9.4';
 Rasterizer.prototype = {
     constructor: Rasterizer,
     strokeStyle: null,
@@ -479,6 +492,7 @@ function fill_rect(set_pixel, x1, y1, x2, y2, xmin, ymin, xmax, ymax)
     }
     if (null != xmin)
     {
+        // if rect is outside viewport return
         if (x2 < xmin || x1 > xmax || y2 < ymin || y1 > ymax) return;
         x1 = stdMath.max(x1, xmin);
         y1 = stdMath.max(y1, ymin);
@@ -510,6 +524,13 @@ function fill_triangle(set_pixel, ax, ay, bx, by, cx, cy, xmin, ymin, xmax, ymax
         yac, yab, ybc,
         zab, zbc,
         clip = null != xmin, e = 0.5;
+    if (clip)
+    {
+        // if triangle is outside viewport return
+        if (stdMath.max(ax, bx, cx) < xmin || stdMath.min(ax, bx, cx) > xmax ||
+        stdMath.max(ay, by, cy) < ymin || stdMath.min(ay, by, cy) > ymax)
+            return;
+    }
     if (by < ay) {t = ay; ay = by; by = t; t = ax; ax = bx; bx = t;}
     if (cy < ay) {t = ay; ay = cy; cy = t; t = ax; ax = cx; cx = t;}
     if (cy < by) {t = by; by = cy; cy = t; t = bx; bx = cx; cx = t;}
@@ -793,6 +814,7 @@ g: ye - wsy - (ye+wsy) = -m*(x - (xe-wsx)) => x = xe + 2wsy/m - wsx: (xe + 2wsy/
 }
 function join_lines(set_pixel, x1, y1, x2, y2, x3, y3, dx1, dy1, wx1, wy1, dx2, dy2, wx2, wy2, j, xmin, ymin, xmax, ymax)
 {
+    if ('bevel' !== j && 'miter' !== j) return;
     if (is_almost_equal(dy1*dx2, dy2*dx1)) return;
 
     var sx1, sy1, sx2, sy2,
@@ -982,7 +1004,16 @@ function sample_curve(f, n, pixelSize, do_refine)
 function subdivide_curve(points, f, l, r, pixelSize, pl, pr)
 {
     if ((l >= r) || is_almost_equal(l, r)) return;
-    var m = (l + r) / 2, left = pl || f(l), right = pr || f(r), middle = f(m);
+    var left = pl || f(l), right = pr || f(r), m, middle;
+    if (hypot(right[0] - left[0], right[1] - left[1]) <= MIN_LEN)
+    {
+        // segment should have at least 2 pixels length
+        // return linear interpolation between left and right
+        points.push(right[0], right[1]);
+        return;
+    }
+    m = (l + r) / 2;
+    middle = f(m);
     if (point_line_distance(middle, left, right) <= pixelSize)
     {
         // no more refinement

diff --git a/test/lines.html b/test/lines.html
@@ -59,6 +59,7 @@ function addColorStops(gradient)
 }
 function drawLine(x1, y1, x2, y2, lw, ld, lc)
 {
+    lw = lw || 1;
     const canvas1 = document.createElement('canvas');
     const canvas2 = document.createElement('canvas');
     canvas1.width = w;
@@ -69,8 +70,8 @@ function drawLine(x1, y1, x2, y2, lw, ld, lc)
     canvas1.style.height = String(h)+'px';
     canvas2.style.width = String(w)+'px';
     canvas2.style.height = String(h)+'px';
-    test1.appendChild(text(1 < lw ? 'Thick Line' : 'Line'));
-    test2.appendChild(text(1 < lw ? 'Thick Line' : 'Line'));
+    test1.appendChild(text('Line (thickness '+lw+')'));
+    test2.appendChild(text('Line (thickness '+lw+')'));
     test1.appendChild(canvas1);
     test2.appendChild(canvas2);
 
@@ -79,7 +80,6 @@ function drawLine(x1, y1, x2, y2, lw, ld, lc)
 
     lc = lc || 'butt';//'square';//'round';
     ld = ld || [];
-    lw = lw || 1;
     ctx1.beginPath();
     ctx1.strokeStyle = '#000';
     ctx1.lineCap = lc;
@@ -270,7 +270,8 @@ function drawGradientBezier(c, lw, ld, lc)
     ctx2.putImageData(imData, 0, 0);
 }
 
-drawLine(20, 20, 80, 100);
+drawLine(20, 20, 80, 100, 1);
+drawLine(20, 20, 80, 100, 0.5);
 drawGradientLine(6, 20, 120, 100, 20, [/*4, 10*/], 'square');
 drawPolyline(60, 20, 20, 20, 20, 60, 20, [/*10, 10*/], 'butt', 'bevel');
 drawPolyline(10, 10, 60, 10, 60, 60, 20, [], 'butt', 'bevel');
